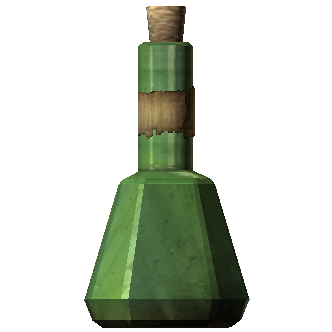
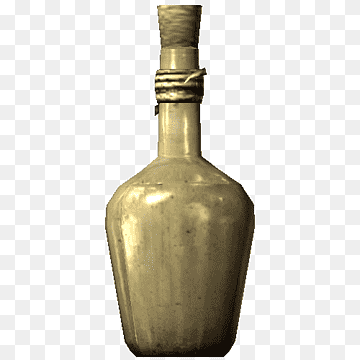
pre-finish, bg, adaptive

Changed region(s): [[0.241, 0.0, 0.753, 0.994]]

diff --git a/src/store/recipe.js b/src/store/recipe.js
@@ -1,21 +1,91 @@
 import posion from '../img/posion.png';
 import power from '../img/potion-power.png';
 import healthy from '../img/potion-healthy.png';
+import magic from '../img/potion-magic.png';
+import stamina from '../img/potion-stamina.png';
+
+
 
 const recipe = [
-    {recipe: 'Белянка-Пушница',
-    name: 'СИЛЬНЫЙ ЯД',
-    img: {posion},
-    key: 1},
-    {recipe: 'Белянка-Паслён',
-    name: 'зелье ВОССТАНОВЛЕНИЯ ЗДОРОВЬЯ',
+    {recipe: 'Пшеница-Сердце даэдра',
+    name: 'ЗЕЛЬЕ ВОССТАНОВЛЕНИЯ ЗДОРОВЬЯ',
     img: {healthy},
-    key: 2},
-    {recipe: 'Паслён-Пушница',
-    name: 'зелье ВОССТАНОВЛЕНИЕ МАНЫ',
+    key: 1},
+    {recipe: 'Жир тролля-Лютый гриб',
+    name: 'ЗЕЛЬЕ БЕШЕНСТВА',
     img: {power},
+    key: 2},
+    {recipe: 'Жир тролля-Паслён',
+    name: 'ЗЕЛЬЕ УРОНА ЗДОРОВЬЮ',
+    img: {posion},
     key: 3},
-    {},
-    {}
+    {recipe: 'Корень Нирна-Паслён',
+    name: 'ЗЕЛЬЕ УРОНА ЗДОРОВЬЮ',
+    img: {posion},
+    key: 4},
+    {recipe: 'Жир тролля-Корень Нирна',
+    name: 'ЗЕЛЬЕ УРОНА ЗДОРОВЬЮ',
+    img: {posion},
+    key: 5},
+    {recipe: 'Жир тролля-Корень жарницы',
+    name: 'ЗЕЛЬЕ УРОНА ЗДОРОВЬЮ',
+    img: {posion},
+    key: 6},
+    {recipe: 'Корень Нирна-Ядовитый цветок',
+    name: 'ЗЕЛЬЕ УРОНА ЗДОРОВЬЮ',
+    img: {posion},
+    key: 7},
+    {recipe: 'Корень жарницы-Ядовитый цветок',
+    name: 'ЗЕЛЬЕ УРОНА ЗДОРОВЬЮ',
+    img: {posion},
+    key: 8},
+    {recipe: 'Жир тролля-Ядовитый цветок',
+    name: 'ЗЕЛЬЕ УРОНА ЗДОРОВЬЮ',
+    img: {posion},
+    key: 8},
+    {recipe: 'Лютый гриб-Пшеница',
+    name: 'ЗЕЛЬЕ ВОССТАНОВЛЕНИЯ ЗДОРОВЬЯ',
+    img: {healthy},
+    key: 6},
+    {recipe: 'Лютый гриб-Сердце даэдра',
+    name: 'ЗЕЛЬЕ ВОССТАНОВЛЕНИЯ ЗДОРОВЬЯ',
+    img: {healthy},
+    key: 7},
+    {recipe: 'Корень Нирна-Лютый гриб',
+    name: 'ЗЕЛЬЕ УРОНА ЗАПАСУ СИЛ',
+    img: {stamina},
+    key: 8},
+    {recipe: 'Корень жарницы-Корень Нирна',
+    name: 'ЗЕЛЬЕ УРОНА ЗАПАСУ СИЛ',
+    img: {stamina},
+    key: 6},
+    {recipe: 'Корень жарницы-Лютый гриб',
+    name: 'ЗЕЛЬЕ УРОНА ЗАПАСУ СИЛ',
+    img: {stamina},
+    key: 7},
+    {recipe: 'Гниль Намиры-Сердце даэдра',
+    name: 'ЗЕЛЬЕ СТРАХА',
+    img: {posion},
+    key: 8},
+    {recipe: 'Гниль Намиры-Ядовитый цветок',
+    name: 'ЗЕЛЬЕ СТРАХА',
+    img: {posion},
+    key: 8},
+    {recipe: 'Ядовитый цветок-Сердце даэдра',
+    name: 'ЗЕЛЬЕ СТРАХА',
+    img: {posion},
+    key: 8},
+    {recipe: 'Гниль Намиры-Корень жарницы',
+    name: 'ЗЕЛЬЕ УРОНА МАГИИ',
+    img: {magic},
+    key: 6},
+    {recipe: 'Корень жарницы-Сердце даэдра',
+    name: 'ЗЕЛЬЕ УРОНА МАГИИ',
+    img: {magic},
+    key: 7},
+    {recipe: 'Гниль Намиры-Сердце даэдра',
+    name: 'ЗЕЛЬЕ УРОНА МАГИИ',
+    img: {magic},
+    key: 8}
 ]
 export default recipe

diff --git a/src/store/redusers/reducers.js b/src/store/redusers/reducers.js
@@ -49,7 +49,7 @@ const reducers = (state = initialState, action) => {
                             }
                         } return state;
         case CREATE_POTION: 
-            if ((state.currentComponents[0].title && state.currentComponents[1].title) && state.potions.length < 7 ) {
+            if ((state.currentComponents[0].title && state.currentComponents[1].title) && state.potions.length < 9 ) {
             let potion = searchPotions(state.currentComponents[0].title, state.currentComponents[1].title)
             
             if (potion === undefined) {
@@ -74,7 +74,7 @@ const reducers = (state = initialState, action) => {
                                 potion: potion}
                         } 
                     
-            } else if(state.potions.length === 7) {
+            } else if(state.potions.length === 9) {
                 return {...state,
                     currentComponents: [
                         {title: null,

diff --git a/src/Potion.js b/src/Potion.js
@@ -4,28 +4,27 @@ import styled from 'styled-components'
 
 function Potion(props) {  
     return (
-      <Wrapper >
+      < >
       <Img key={props.id} title={props.name} src={Object.values(props.img)[0]}/>
-        </Wrapper>
+        </>
     );
   }
   
 
-   
-  const Wrapper = styled.div `
-    height: 30px;
-    width: 50px;
-    border-radius: 10px;
-    /* background: rgba(219, 191, 154, 0.2); */
-    display: flex;
-    text-align: center;
-    justify-content: space-evenly;
-    align-items: center;
-
-  `
   const Img = styled.img`
-    height: 90px;
-    width: 90px;
+    height: 80px;
+    width: 80px;
+    margin-right: -35px;
+    padding-top: 15px;
+    padding-left: 5px;
+
+    @media screen and (max-width: 450px) {
+      height: 50px;
+      width: 50px;
+
+
+
+    }
  `  
   export default Potion;
   

diff --git a/src/PotionsShelf.js b/src/PotionsShelf.js
@@ -1,5 +1,6 @@
 import styled from 'styled-components'
 import Potion from './Potion';
+import bg from './img/polka2.jpg'
 
 
 
@@ -20,12 +21,23 @@ const PotionsShelf = (props) => {
   }
     const Wrapper = styled.div `
       width: 500px;
-      height: 200px;
+      height: 150px;
       display: flex;
-      position: absolute;
-      left: -300px;
-      top: 557px;
-      flex-wrap: wrap; 
+      align-items: center;
+      background-image: url(${bg});
+      background-repeat: no-repeat;
+      background-size: 100% 100%;
+      position: fixed; 
+      left: 0;
+      bottom: 0;
+      @media screen and (max-width: 450px) {
+        width: 350px;
+        height: 100px;
+        position: fixed; 
+        bottom: 0px;
+        left: auto;
+        right: auto;
+  }
     `;
     export default PotionsShelf;
     

diff --git a/src/index.css b/src/index.css
@@ -5,10 +5,36 @@ body {
     sans-serif;
   -webkit-font-smoothing: antialiased;
   -moz-osx-font-smoothing: grayscale;
-  background-image: url('./img/lab2.jpg');
   background-repeat: no-repeat;
+  background: rgb(59, 59, 46);
   background-size: 100% 100vh;
 }
+@media screen and (min-width: 1500px) {
+
+  body {
+    background-image: url('./img/lab.jpg');};
+
+}
+
+@media screen and (max-width: 1500px) {
+
+  body {
+    background-image: url('./img/lab5.jpg');};
+
+}
+@media screen and (max-width: 970px) {
+
+  body {
+    background-image: url('./img/lab3.jpg');};
+
+}
+@media screen and (max-width: 650px) {
+
+  body {
+    background-image: url('./img/lab4.jpg');};
+
+}
+
 
 code {
   font-family: source-code-pro, Menlo, Monaco, Consolas, 'Courier New',

diff --git a/src/Component.js b/src/Component.js
@@ -27,13 +27,25 @@ function Component(props) {
     border: 1px #0a0a0a solid;
     cursor: pointer;
     filter: opacity(80%) ;
-    
+    @media screen and (max-width: 600px) {
+      width: 80px;
+      height: 80px;
+      border-radius: 10px;
+    }
+    @media screen and (max-width: 450px) {
+      width: 60px;
+      height: 60px;
+    }
     &:hover{
       background: rgba(219, 191, 154, 1);
     }
   `
   const WrapperText = styled.h3`
   font-size: 20px;
+  @media screen and (max-width: 600px) {
+    font-size: 10px;
+    
+    }
  `  
   export default Component;
   

diff --git a/src/store/initialState.js b/src/store/initialState.js
@@ -1,13 +1,13 @@
 const initialState = {
     components: [
-        'Пушница',
+        'Пшеница',
         'Жир тролля',
         'Корень Нирна',
-        'Паслён',
+        'Корень жарницы',
         'Лютый гриб',
-        'Белянка',
         'Сердце даэдра',
-        'Гниль Намиры'
+        'Гниль Намиры',
+        'Ядовитый цветок'
     ],
     currentComponents: [
         {title: null, key: 1},     

diff --git a/src/App.js b/src/App.js
@@ -47,10 +47,14 @@ class App extends React.Component {
 
  const Wrapper = styled.div `
   width: 600px;
-  background: rgba(0,0,0,0.5);
+  background: rgba(0,0,0,0.3);
   height: 500px;
   margin: 0 auto;
   position: relative;
+  @media screen and (max-width: 600px) {
+      width: 450px;
+      margin: 0 auto;
+    }
  `
 
 export default WrappedApp;

diff --git a/src/Modal.js b/src/Modal.js
@@ -24,6 +24,13 @@ import img from './img/bigpeper.png'
         p{
             margin: 100px;
         }
+        @media screen and (max-width: 850px) {
+        width: 350px;
+        height: 200px;
+        font-size: 20px;
+        top: 50%;
+        left: 10px;
+    }
         `
 const Modal = (props) => {
     const modal = props.modal

diff --git a/src/Components.js b/src/Components.js
@@ -36,6 +36,13 @@ class Components extends React.Component {
     display: flex;
     flex-wrap: wrap;
     justify-content: space-evenly ;
-  `;
+    @media screen and (max-width: 600px) {
+      width: 450px;
+    }
+
+    @media screen and (max-width: 450px) {
+      width: 350px;
+    }
+  `
   export default Components;
   

diff --git a/src/Button.js b/src/Button.js
@@ -30,6 +30,11 @@ function Button (props) {
         box-shadow: none;
         background: rgba(186, 163, 132, 1);
     }
+    @media screen and (max-width: 600px) {
+      font-size: 15px;
+      height: 40px;
+      width: 80px;
+    }
     `
 
  
